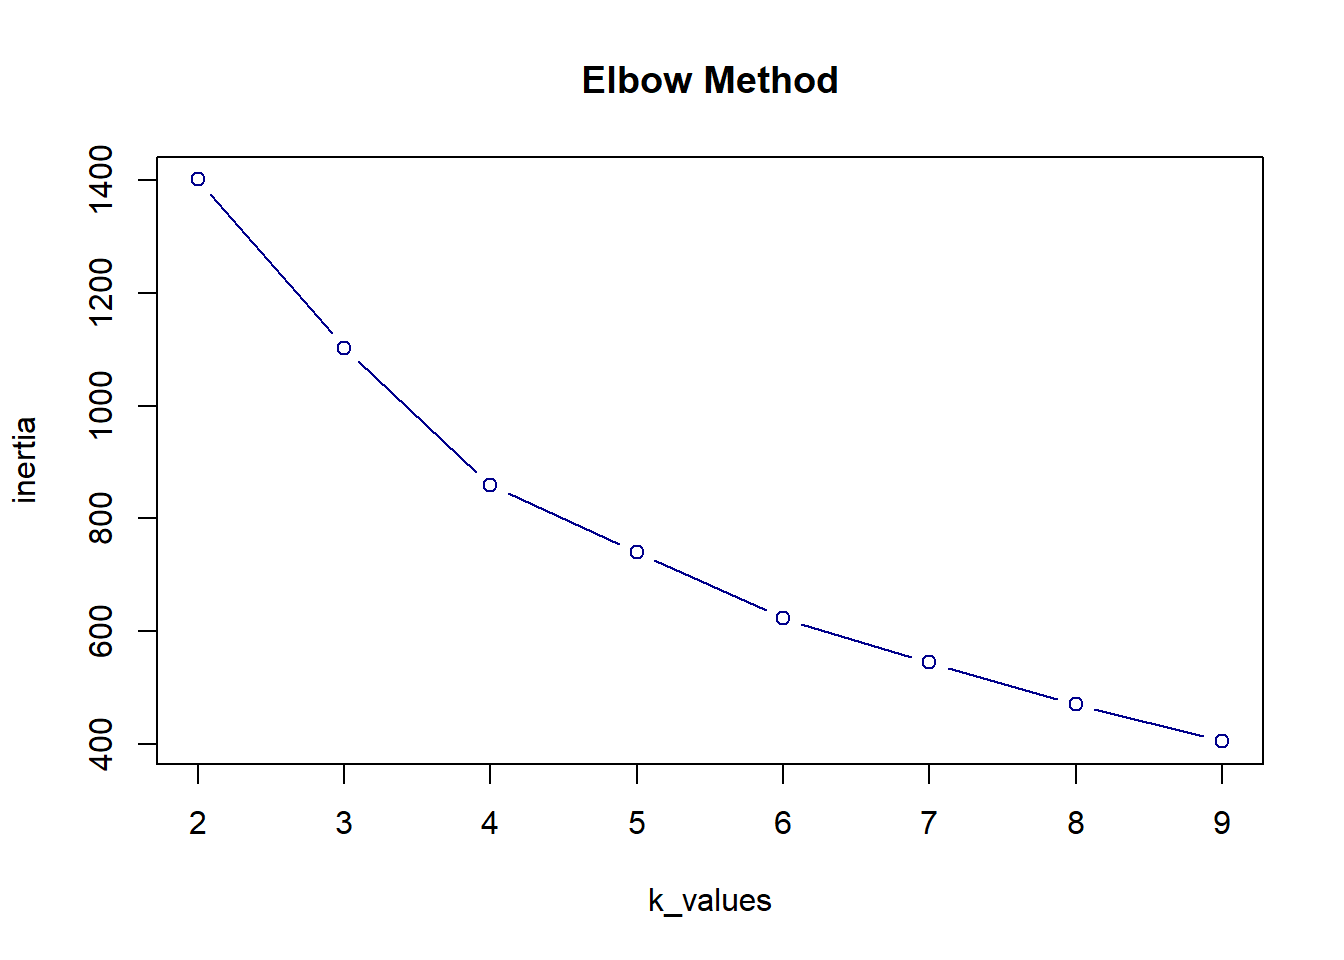
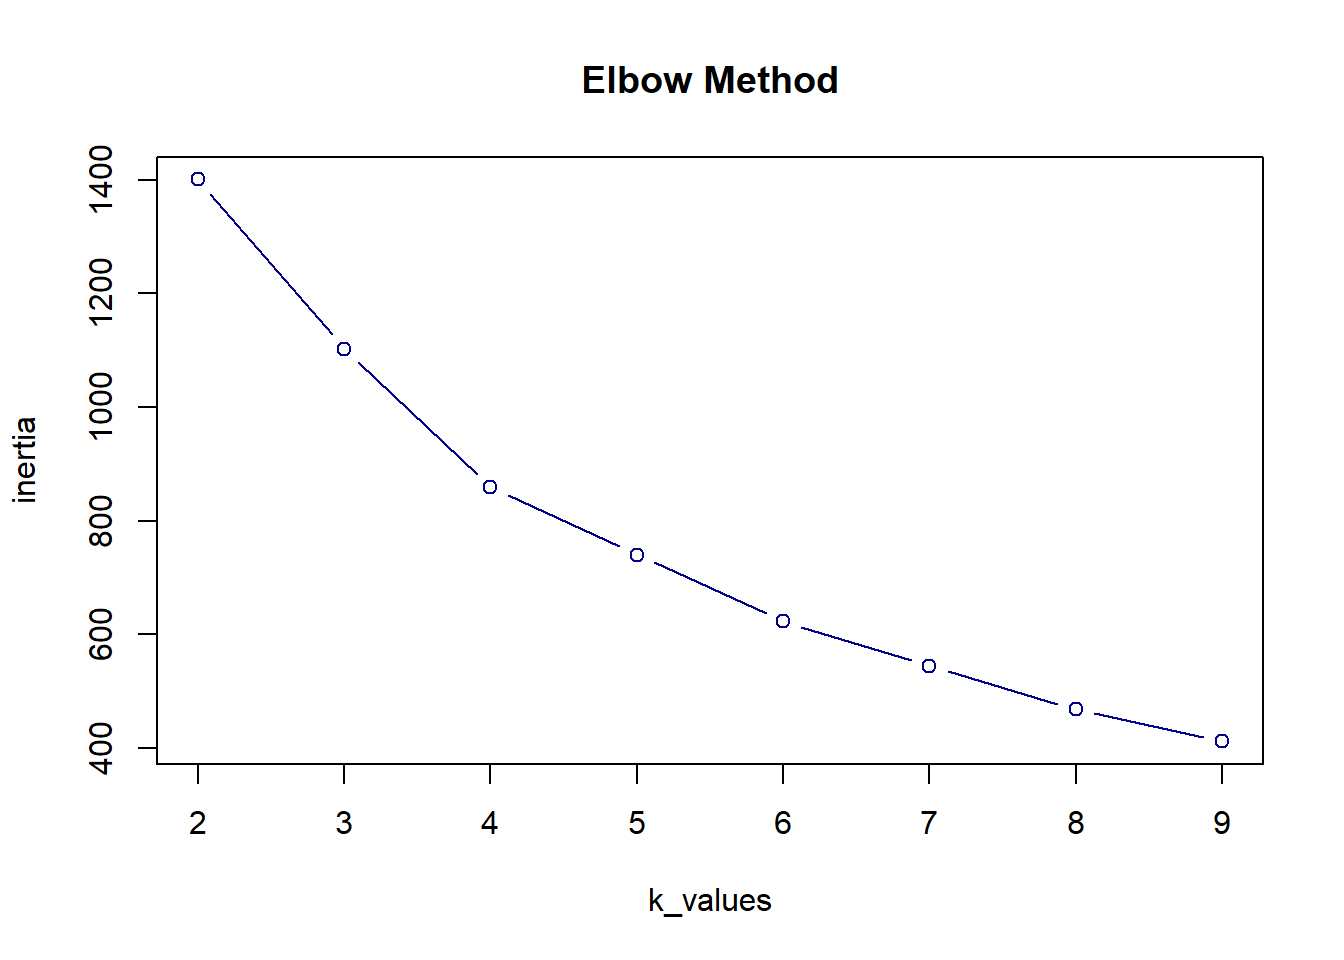
MCDA explanation repositioned, diagram added

diff --git a/report.html b/report.html
@@ -80,63 +80,31 @@ pre > code.sourceCode > span > a:first-child::before { text-decoration: underlin
 
 <div id="quarto-content" class="page-columns page-rows-contents page-layout-article">
 <div id="quarto-margin-sidebar" class="sidebar margin-sidebar">
-  <nav id="TOC" role="doc-toc" class="toc-active" data-toc-expanded="2">
+  <nav id="TOC" role="doc-toc" class="toc-active">
     <h2 id="toc-title">Table of contents</h2>
    
   <ul>
   <li><a href="#introduction" id="toc-introduction" class="nav-link active" data-scroll-target="#introduction">Introduction</a>
-  <ul>
-  <li><a href="#colophon" id="toc-colophon" class="nav-link" data-scroll-target="#colophon">Colophon</a>
   <ul class="collapse">
-  <li><a href="#students-roles-and-contributions" id="toc-students-roles-and-contributions" class="nav-link" data-scroll-target="#students-roles-and-contributions">Students – roles and contributions</a></li>
-  <li><a href="#course-information" id="toc-course-information" class="nav-link" data-scroll-target="#course-information">Course information</a></li>
-  </ul></li>
+  <li><a href="#colophon" id="toc-colophon" class="nav-link" data-scroll-target="#colophon">Colophon</a></li>
   </ul></li>
   <li><a href="#methods" id="toc-methods" class="nav-link" data-scroll-target="#methods">Methods</a>
-  <ul>
+  <ul class="collapse">
   <li><a href="#reproducibility-self-assessment" id="toc-reproducibility-self-assessment" class="nav-link" data-scroll-target="#reproducibility-self-assessment">Reproducibility self assessment</a></li>
   </ul></li>
   <li><a href="#mcda" id="toc-mcda" class="nav-link" data-scroll-target="#mcda">MCDA</a>
-  <ul>
-  <li><a href="#selection-of-objectives-and-criteria-three-pillar-system" id="toc-selection-of-objectives-and-criteria-three-pillar-system" class="nav-link" data-scroll-target="#selection-of-objectives-and-criteria-three-pillar-system">Selection of objectives and criteria – three pillar system</a>
   <ul class="collapse">
-  <li><a href="#detailed-research-structure" id="toc-detailed-research-structure" class="nav-link" data-scroll-target="#detailed-research-structure">Detailed research structure</a></li>
-  <li><a href="#weighting" id="toc-weighting" class="nav-link" data-scroll-target="#weighting">Weighting</a></li>
-  </ul></li>
-  <li><a href="#analysis-geometry" id="toc-analysis-geometry" class="nav-link" data-scroll-target="#analysis-geometry">Analysis geometry</a>
-  <ul class="collapse">
-  <li><a href="#analysis-geometry-update-after-27.-5.-consultation" id="toc-analysis-geometry-update-after-27.-5.-consultation" class="nav-link" data-scroll-target="#analysis-geometry-update-after-27.-5.-consultation">Analysis geometry update after 27. 5. consultation</a></li>
-  <li><a href="#land-cover-classification" id="toc-land-cover-classification" class="nav-link" data-scroll-target="#land-cover-classification">Land cover classification</a></li>
-  </ul></li>
+  <li><a href="#explanation-of-how-mcda-works" id="toc-explanation-of-how-mcda-works" class="nav-link" data-scroll-target="#explanation-of-how-mcda-works">Explanation of how MCDA works</a></li>
+  <li><a href="#selecting-objectives-and-criteria-three-pillar-system" id="toc-selecting-objectives-and-criteria-three-pillar-system" class="nav-link" data-scroll-target="#selecting-objectives-and-criteria-three-pillar-system">Selecting objectives and criteria – three pillar system</a></li>
+  <li><a href="#analysis-geometry" id="toc-analysis-geometry" class="nav-link" data-scroll-target="#analysis-geometry">Analysis geometry</a></li>
   <li><a href="#data-structure" id="toc-data-structure" class="nav-link" data-scroll-target="#data-structure">Data structure</a></li>
-  <li><a href="#biodiversity" id="toc-biodiversity" class="nav-link" data-scroll-target="#biodiversity">Biodiversity</a>
-  <ul class="collapse">
-  <li><a href="#which-spaces-should-be-prioritised-because-of-their-connectivity-to-úses" id="toc-which-spaces-should-be-prioritised-because-of-their-connectivity-to-úses" class="nav-link" data-scroll-target="#which-spaces-should-be-prioritised-because-of-their-connectivity-to-úses">#1 Which spaces should be prioritised because of their connectivity to ÚSES?</a></li>
-  <li><a href="#which-spaces-should-be-prioritised-based-on-ecological-quality-improvement-potential" id="toc-which-spaces-should-be-prioritised-based-on-ecological-quality-improvement-potential" class="nav-link" data-scroll-target="#which-spaces-should-be-prioritised-based-on-ecological-quality-improvement-potential">#2 Which spaces should be prioritised based on ecological quality improvement potential?</a></li>
-  <li><a href="#which-spaces-should-be-prioritized-based-on-current-state-of-the-vegetation" id="toc-which-spaces-should-be-prioritized-based-on-current-state-of-the-vegetation" class="nav-link" data-scroll-target="#which-spaces-should-be-prioritized-based-on-current-state-of-the-vegetation">#3 Which spaces should be prioritized based on current state of the vegetation?</a></li>
-  <li><a href="#weighting-1" id="toc-weighting-1" class="nav-link" data-scroll-target="#weighting-1">Weighting</a></li>
-  <li><a href="#biodiversity-conclusion" id="toc-biodiversity-conclusion" class="nav-link" data-scroll-target="#biodiversity-conclusion">Biodiversity conclusion</a></li>
-  </ul></li>
-  <li><a href="#climate-adaptation" id="toc-climate-adaptation" class="nav-link" data-scroll-target="#climate-adaptation">Climate adaptation</a>
-  <ul class="collapse">
-  <li><a href="#which-spaces-should-be-prioritized-for-interventions-aimed-at-cooling-the-area-down" id="toc-which-spaces-should-be-prioritized-for-interventions-aimed-at-cooling-the-area-down" class="nav-link" data-scroll-target="#which-spaces-should-be-prioritized-for-interventions-aimed-at-cooling-the-area-down">#1 Which spaces should be prioritized for interventions aimed at cooling the area down?</a></li>
-  <li><a href="#where-does-the-soil-have-high-potential-for-water-retention" id="toc-where-does-the-soil-have-high-potential-for-water-retention" class="nav-link" data-scroll-target="#where-does-the-soil-have-high-potential-for-water-retention">#2 Where does the soil have high potential for water retention?</a></li>
-  <li><a href="#weighting-2" id="toc-weighting-2" class="nav-link" data-scroll-target="#weighting-2">Weighting</a></li>
-  <li><a href="#climate-adaptation-conclusion" id="toc-climate-adaptation-conclusion" class="nav-link" data-scroll-target="#climate-adaptation-conclusion">Climate adaptation conclusion</a></li>
-  </ul></li>
-  <li><a href="#quality-of-life" id="toc-quality-of-life" class="nav-link" data-scroll-target="#quality-of-life">Quality of life</a>
-  <ul class="collapse">
-  <li><a href="#where-is-potential-for-community-functions" id="toc-where-is-potential-for-community-functions" class="nav-link" data-scroll-target="#where-is-potential-for-community-functions">#1 Where is potential for community functions?</a></li>
-  <li><a href="#where-is-potential-for-central-functions" id="toc-where-is-potential-for-central-functions" class="nav-link" data-scroll-target="#where-is-potential-for-central-functions">#2 Where is potential for “central” functions?</a></li>
-  <li><a href="#where-is-a-large-need-for-green" id="toc-where-is-a-large-need-for-green" class="nav-link" data-scroll-target="#where-is-a-large-need-for-green">#3 Where is a large need for green?</a></li>
-  <li><a href="#placeholder-space-syntax-base-layers-until-we-put-it-in-correct-chapters" id="toc-placeholder-space-syntax-base-layers-until-we-put-it-in-correct-chapters" class="nav-link" data-scroll-target="#placeholder-space-syntax-base-layers-until-we-put-it-in-correct-chapters">PLACEHOLDER SPACE SYNTAX base layers – UNTIL WE PUT IT IN CORRECT CHAPTERS</a></li>
-  <li><a href="#weighting-3" id="toc-weighting-3" class="nav-link" data-scroll-target="#weighting-3">Weighting</a></li>
-  <li><a href="#quality-of-life-conclusion" id="toc-quality-of-life-conclusion" class="nav-link" data-scroll-target="#quality-of-life-conclusion">Quality of life conclusion</a></li>
-  </ul></li>
+  <li><a href="#biodiversity" id="toc-biodiversity" class="nav-link" data-scroll-target="#biodiversity">Biodiversity</a></li>
+  <li><a href="#climate-adaptation" id="toc-climate-adaptation" class="nav-link" data-scroll-target="#climate-adaptation">Climate adaptation</a></li>
+  <li><a href="#quality-of-life" id="toc-quality-of-life" class="nav-link" data-scroll-target="#quality-of-life">Quality of life</a></li>
   <li><a href="#mcda-conclusion" id="toc-mcda-conclusion" class="nav-link" data-scroll-target="#mcda-conclusion">MCDA conclusion</a></li>
   </ul></li>
   <li><a href="#typology-construction" id="toc-typology-construction" class="nav-link" data-scroll-target="#typology-construction">Typology construction</a>
-  <ul>
+  <ul class="collapse">
   <li><a href="#step-1.-load-r-packages-and-data" id="toc-step-1.-load-r-packages-and-data" class="nav-link" data-scroll-target="#step-1.-load-r-packages-and-data">Step 1. Load R packages and data</a></li>
   <li><a href="#step-2.-standardization" id="toc-step-2.-standardization" class="nav-link" data-scroll-target="#step-2.-standardization">Step 2. Standardization</a></li>
   <li><a href="#step-3-determine-the-optimal-k" id="toc-step-3-determine-the-optimal-k" class="nav-link" data-scroll-target="#step-3-determine-the-optimal-k">Step 3: Determine the optimal K</a></li>
@@ -147,14 +115,14 @@ pre > code.sourceCode > span > a:first-child::before { text-decoration: underlin
   </ul></li>
   <li><a href="#results" id="toc-results" class="nav-link" data-scroll-target="#results">Results</a></li>
   <li><a href="#discussion" id="toc-discussion" class="nav-link" data-scroll-target="#discussion">Discussion</a>
-  <ul>
+  <ul class="collapse">
   <li><a href="#discussion-of-results" id="toc-discussion-of-results" class="nav-link" data-scroll-target="#discussion-of-results">Discussion of results</a></li>
   </ul></li>
   <li><a href="#reflection" id="toc-reflection" class="nav-link" data-scroll-target="#reflection">Reflection</a></li>
   <li><a href="#conclusion" id="toc-conclusion" class="nav-link" data-scroll-target="#conclusion">Conclusion</a></li>
   <li><a href="#appendix" id="toc-appendix" class="nav-link" data-scroll-target="#appendix">Appendix</a></li>
   <li><a href="#sources" id="toc-sources" class="nav-link" data-scroll-target="#sources">Sources</a>
-  <ul>
+  <ul class="collapse">
   <li><a href="#literature" id="toc-literature" class="nav-link" data-scroll-target="#literature">Literature</a></li>
   <li><a href="#map-layers" id="toc-map-layers" class="nav-link" data-scroll-target="#map-layers">Map layers</a></li>
   <li><a href="#images" id="toc-images" class="nav-link" data-scroll-target="#images">Images</a></li>
@@ -237,7 +205,6 @@ pre > code.sourceCode > span > a:first-child::before { text-decoration: underlin
 <!-- ``` -->
 <!-- and start the report from the Introduction section below. -->
 <!-- ::: -->
-<div id="toc"></div>
 <section id="introduction" class="level2">
 <h2 class="anchored" data-anchor-id="introduction">Introduction</h2>
 <p><strong><em>How to approach stream restoration so that it gives place for desired urban and community facilities, as well as improving biodiversity, ecological connectivity, and water retention in the landscape?</em></strong></p>
@@ -290,9 +257,22 @@ pre > code.sourceCode > span > a:first-child::before { text-decoration: underlin
 </div>
 </div>
 </div>
-<p>We use MCDA to determine suitability of areas in Teplica river floodplain in the city of Senica for urban stream restoration measures targeting specific themes, and also in general.</p>
-<section id="selection-of-objectives-and-criteria-three-pillar-system" class="level3">
-<h3 class="anchored" data-anchor-id="selection-of-objectives-and-criteria-three-pillar-system">Selection of objectives and criteria – three pillar system</h3>
+<p>We use MCDA to determine suitability of areas in Teplica river floodplain in the city of Senica for urban stream restoration measures targeting specific themes, and also in general for sustainable urban stream restoration measures.</p>
+<section id="explanation-of-how-mcda-works" class="level3">
+<h3 class="anchored" data-anchor-id="explanation-of-how-mcda-works">Explanation of how MCDA works</h3>
+<p>This is a short overview of how MCDA works in this research project. MCDA starts with a research question and subquestions, leading to objectives. Our research ibjectives are described below. From these research questions, we determined criteria that will be used to describe/answer them.</p>
+<p>We determined the mutual importance of the attributes and assigned weights to them based on pairwise comparison. For this, we used a Saaty matrix. In the Saaty matrix, in each cell we stated how many times we think the criterion in the row is more important than the criterion in the column. This is described more in detail below. To evaluate the Saaty matrix, a sum is calculated for each row. These values are normalised to determine the weights, so the sum of the weights is 1.</p>
+<p>We divided the area into spatial units that form our analysis geometry, the workflow is described below. These are the units on which the research questions will be answered. For each of these units, we determined the value of each criterion. We normalised these criteria to 0-1, so they are comparable with each other.</p>
+<p>Then, we multiplied the criteria by the weights to get their relative value (for each spatial unit, the sum of all the weighted criteria falls into interval 0-1). We determined the result of MCDA for the main research question, as well as for individual subquestions.</p>
+<div class="quarto-figure quarto-figure-center">
+<figure class="figure">
+<p><img src="img/MCDA_explanation.png" class="img-fluid figure-img"></p>
+<figcaption>Diagram of how MCDA works</figcaption>
+</figure>
+</div>
+</section>
+<section id="selecting-objectives-and-criteria-three-pillar-system" class="level3">
+<h3 class="anchored" data-anchor-id="selecting-objectives-and-criteria-three-pillar-system">Selecting objectives and criteria – three pillar system</h3>
 <p>The approach of ReBioClim project builds on three pillars: <em>“The primary aim is to improve the quality of life in cities and at the same time to promote biodiversity and climate adaptation.”</em> (ReBioClim n.d.)</p>
 <div class="quarto-figure quarto-figure-center">
 <figure class="figure">
@@ -300,7 +280,7 @@ pre > code.sourceCode > span > a:first-child::before { text-decoration: underlin
 <figcaption>Approach: combining the themes of biodiversity, climate adaptation, and quality of life</figcaption>
 </figure>
 </div>
-<p>These three themes form the three branches of our MCDA analysis research tree. In each of these branches, we chose a number of sub-themes to determine the suitability of different more specific types of interventions. These sub-themes form attributes which we aggregate to use for MCDA performed for each of the three themes, as well as for sustainable urban stream restoration as a whole. Each attribute was given a unique code to be used across our research for clarity.</p>
+<p>These three themes form the three branches of our MCDA analysis research tree. In each of these branches, we chose a number of sub-themes to determine the suitability of different more specific types of interventions. These sub-themes consist of attributes which we aggregate to use for MCDA. MCDA is performed for each of the three themes, as well as for sustainable urban stream restoration as a whole. Each attribute was given a unique code to be used across our research for clarity.</p>
 <div class="quarto-figure quarto-figure-center">
 <figure class="figure">
 <p><img src=".\img/MCDAresearchStructure_overview.png" class="img-fluid figure-img"></p>
@@ -309,22 +289,22 @@ pre > code.sourceCode > span > a:first-child::before { text-decoration: underlin
 </div>
 <section id="detailed-research-structure" class="level4">
 <h4 class="anchored" data-anchor-id="detailed-research-structure">Detailed research structure</h4>
-<p>Each of the subthemes comes with its own research subquestion. In the scheme below, you can see a more detailed look at the MCDA research structure, together with an overview of what data we use to evaluate the attributes, and what format of geometry that data is. More specifics of how we sourced the data, what it represents, and how we worked with it are described below in the chapters dedicated to individual attributes.</p>
+<p>Each of the sub/themes comes with its own research subquestion. In the scheme below, you can see a more detailed look at the MCDA research structure, together with an overview of what data we use to evaluate the attributes, and what format of geometry that data is. More specifics of how we sourced the data, what it represents, and how we worked with it are described below in the chapters dedicated to individual attributes.</p>
 <iframe src="pdf/MCDA_researchStructure_detailed.pdf" width="100%" height="500" frameborder="0">
 </iframe>
 
 </section>
 <section id="weighting" class="level4">
 <h4 class="anchored" data-anchor-id="weighting">Weighting</h4>
-<p>In MCDA, each attributes results in a quantifiable criterion. These criteria are normalised and weighed among each other based on their hierarchy of importance in relation to the research question. There are different approaches to determined the weights, we used pairwise comparison Saaty matrix. For this, we used <a href="https://fuzzyahp.holecekp.eu/en/info">Fuzzy AHP</a> by Pavel Holeček.</p>
+<p>In MCDA, each attribute results in a quantifiable criterion. These criteria are normalised and weighed among each other based on their hierarchy of importance in relation to the research question. There are different approaches to determined the weights, we used pairwise comparison Saaty matrix. For this, we used <a href="https://fuzzyahp.holecekp.eu/en/info">Fuzzy AHP</a> by Pavel Holeček.</p>
 <p>We determined how many times more or less important is each criterion in relation to every other criterion. This was done in a subjective way, based on our understanding of the problem. The complete matrix of the importance ratios looks like this:</p>
 <div class="quarto-figure quarto-figure-center">
 <figure class="figure">
 <p><img src="img/CompleteSaatyMatrix.png" class="img-fluid figure-img"></p>
-<figcaption>Complete Saaty Matrix. The meaning of the numbers is: “How many times more important is the criterion in the row compared to the item in the column?”</figcaption>
+<figcaption>Complete Saaty Matrix. The meaning of the numbers is: “How many times more important is the criterion in the row compared to the criterion in the column?”</figcaption>
 </figure>
 </div>
-<p>To evaluate the Saaty matrix, a sum is calculated for each row, and normalises them to determine the weights. For the matrix above, the weights are assigned as follows. Overall, highest weights were assigned to CA1temp (targetting cooling down summer surface temperature) and QL2acg (potential for central urban functions) and QL3gr (need of built up area for green). Criteria that scored high directly influence livability offer a very actionable basis for the public sector and show potential for feasible and well advocatable investments.</p>
+<p>For the matrix above, the weights are assigned as follows. Overall, highest weights were assigned to CA1temp (targeting cooling down summer surface temperature) and QL2acg (potential for central urban functions) and QL3gr (need of built up area for green). Criteria that scored high directly influence livability offer a very actionable basis for the public sector and show potential for feasible and well advocatable investments.</p>
 <table class="caption-top table">
 <caption>Weights of MCDA criteria</caption>
 <thead>
@@ -1105,10 +1085,10 @@ Projected CRS: ETRS89 / UTM zone 33N
 2 3 1102.4197
 3 4  859.0034
 4 5  740.4449
-5 6  637.3906
-6 7  544.3696
-7 8  469.6773
-8 9  407.5415</code></pre>
+5 6  623.5229
+6 7  545.1301
+7 8  468.2062
+8 9  411.9959</code></pre>
 </div>
 </div>
 <p>The changing of inertia with increasing k is visualised and based on the <em>elbow point</em> we choose the best value for k. After this elbow point, adding more clusters does not add much to the quality of the end results.</p>
